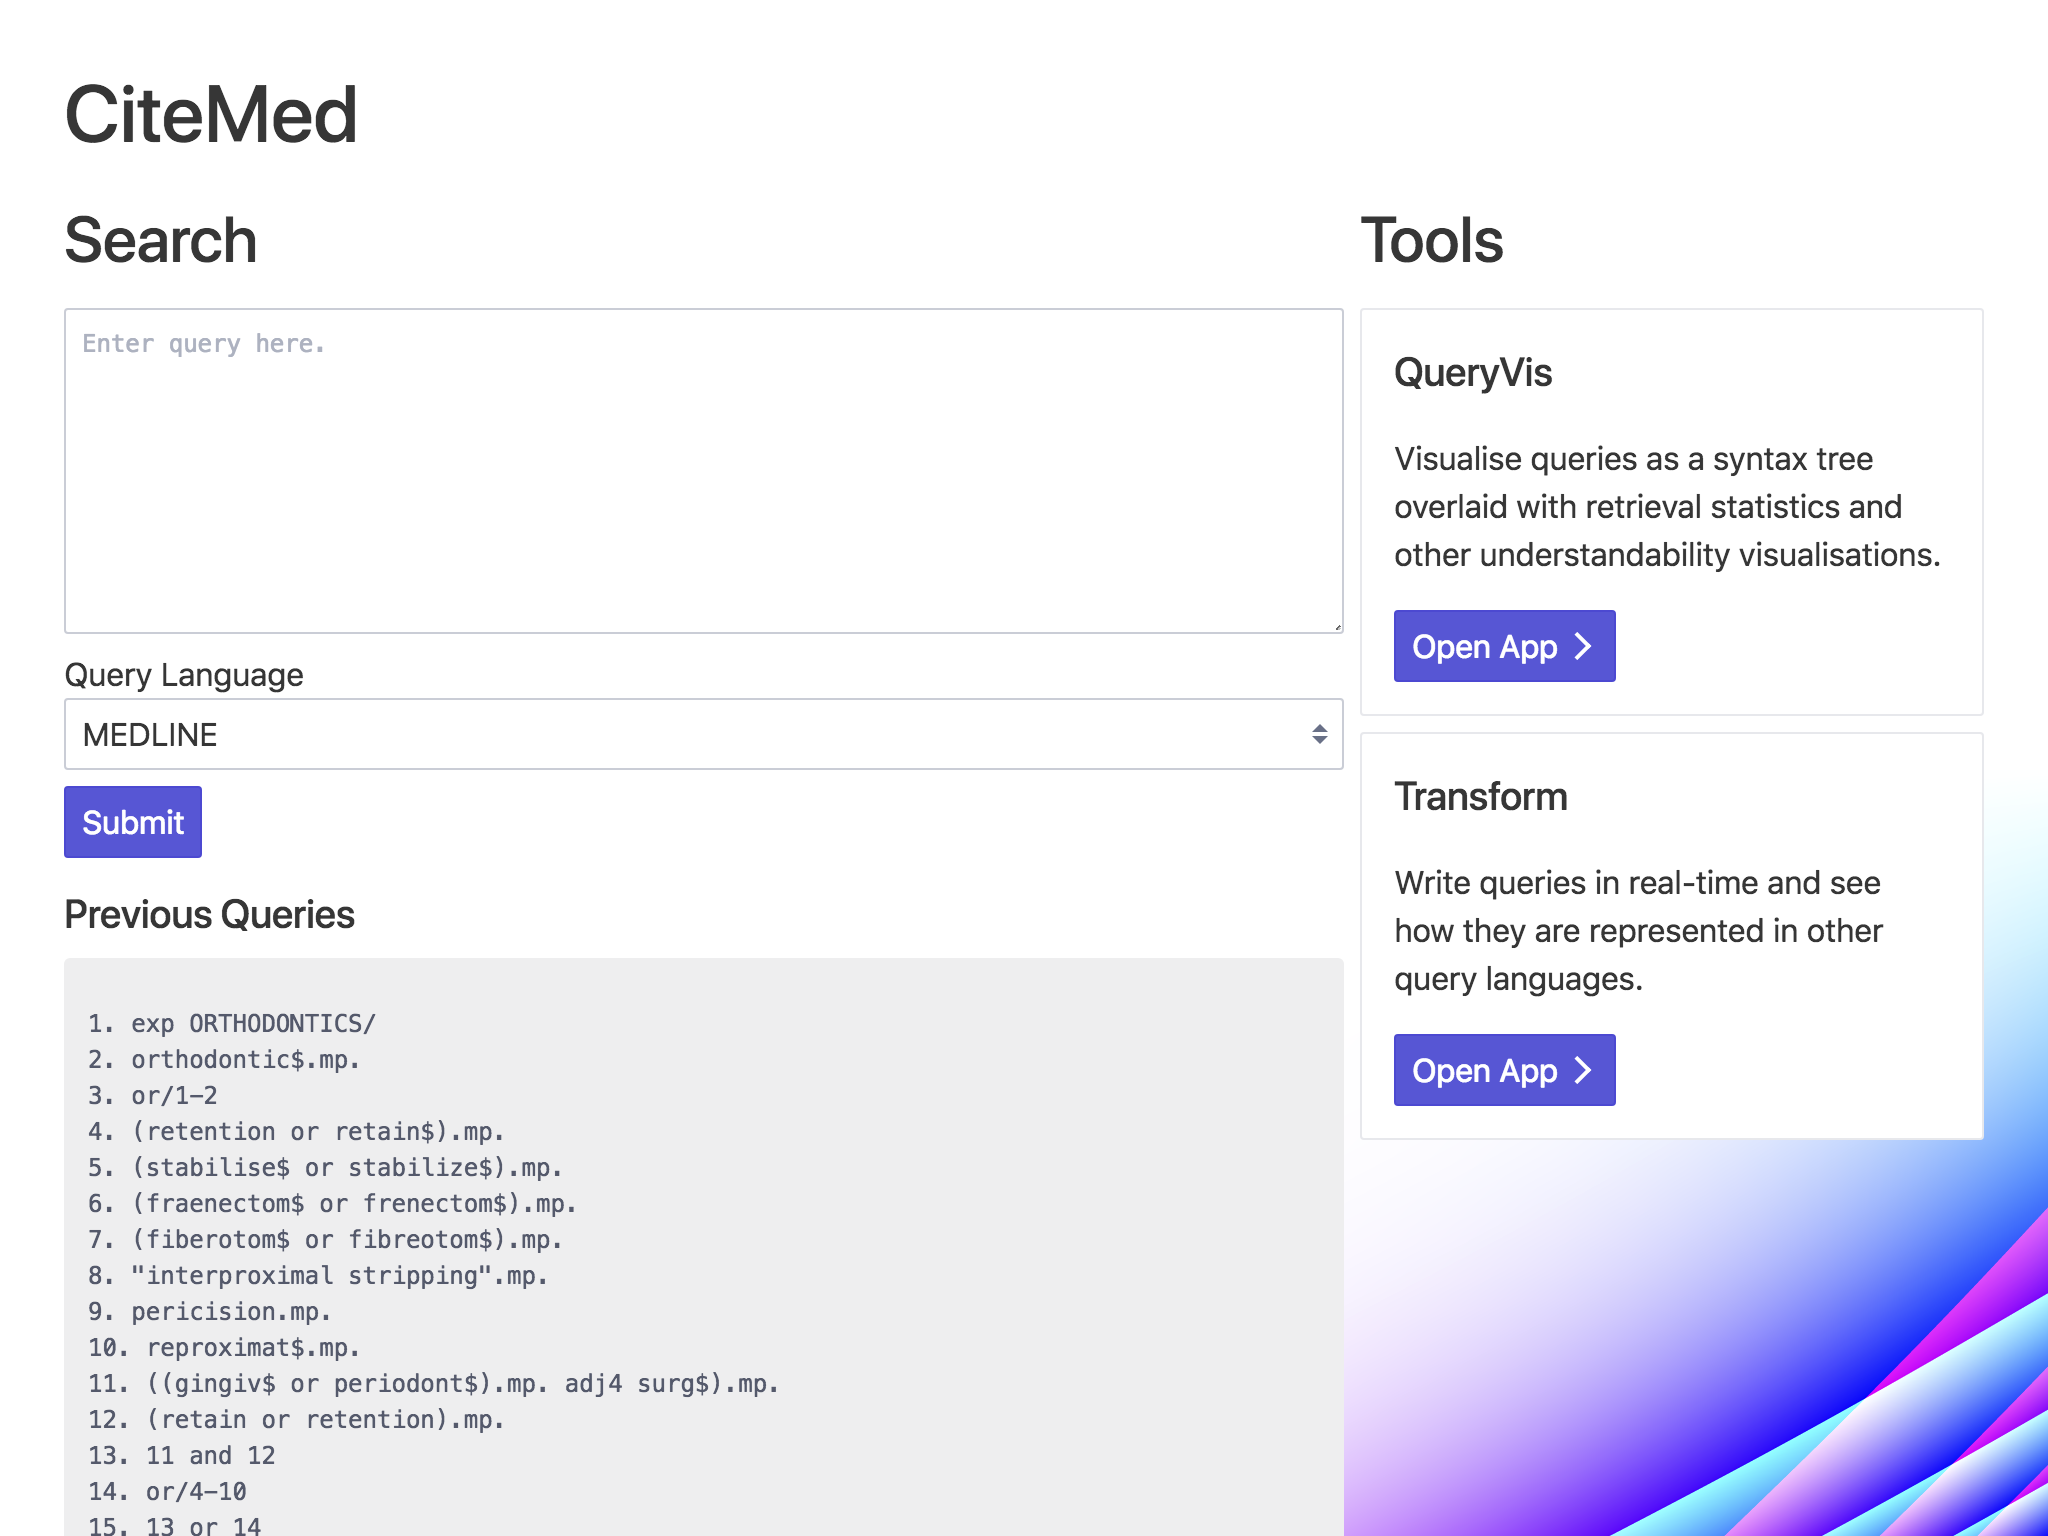
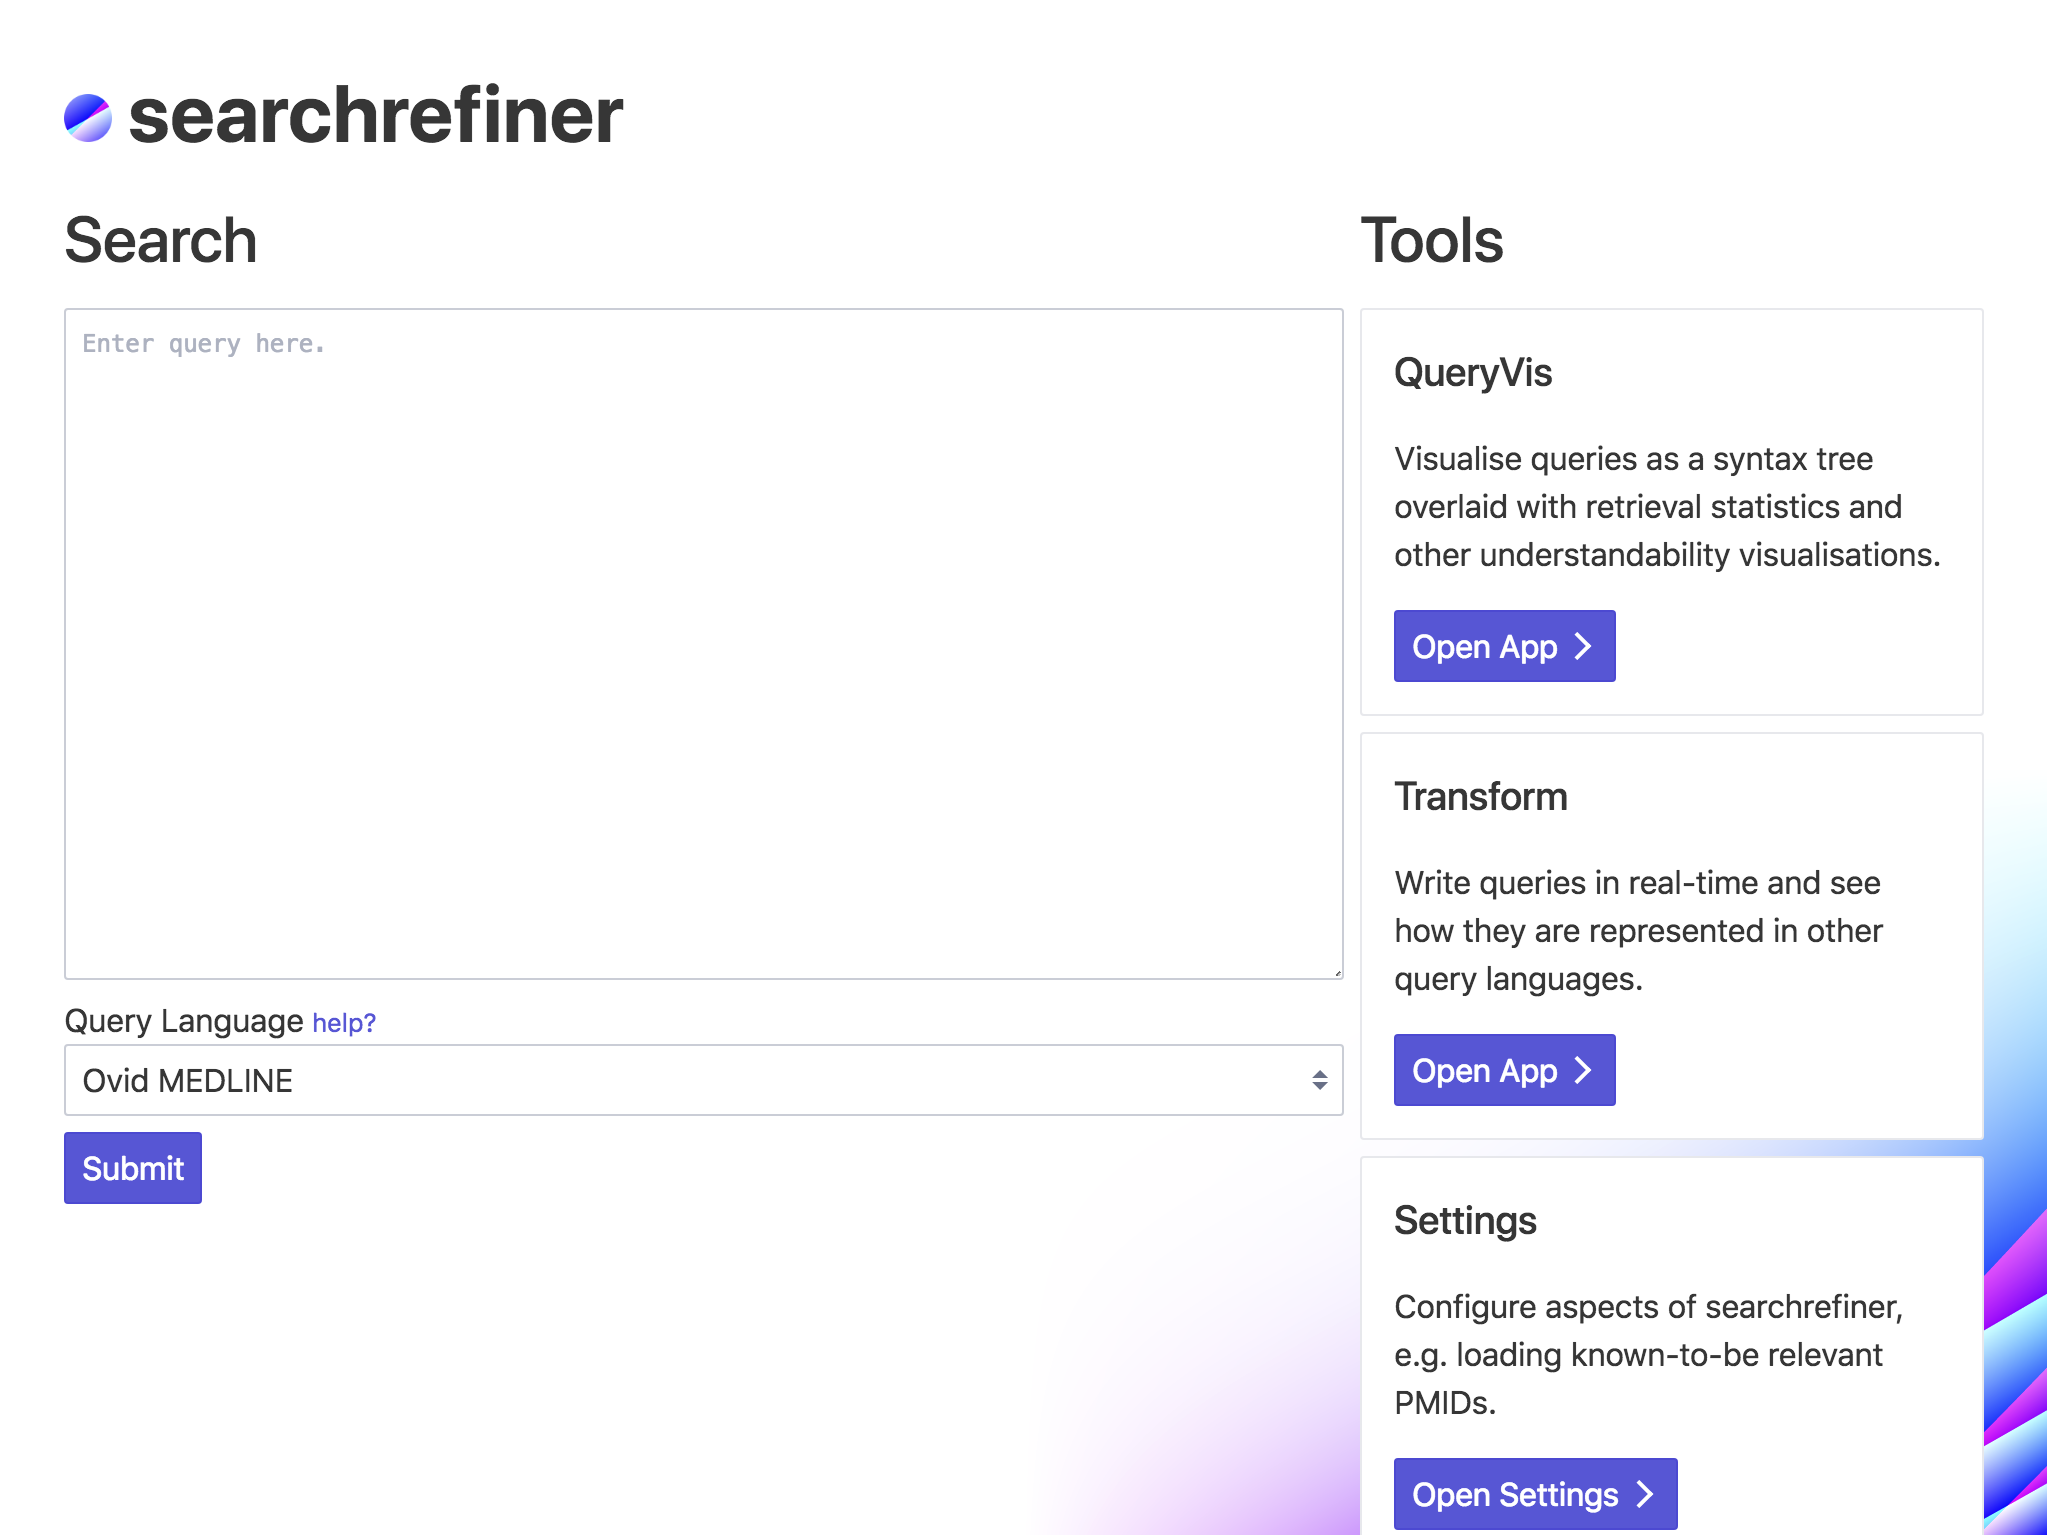
Rename to searchrefiner (Resolves #29).

diff --git a/web/index.html b/web/index.html
@@ -1,16 +1,16 @@
 <!--suppress HtmlUnknownTarget -->
 <html>
 <head>
-    <title>CiteMed</title>
+    <title>searchrefiner</title>
     <link rel="icon" href="static/favicon.png" type="image/x-png">
     <link rel="stylesheet" href="static/spectre.min.css" type="text/css">
     <link rel="stylesheet" href="static/spectre-icons.min.css" type="text/css">
     <link rel="stylesheet" href="static/spectre-exp.min.css" type="text/css">
-    <link rel="stylesheet" href="static/citemed.css" type="text/css">
+    <link rel="stylesheet" href="static/searchrefiner.css" type="text/css">
     <style>
         body {
             padding: 32px;
-            background: url("static/citemed.png") no-repeat fixed bottom right;
+            background: url("static/searchrefiner.png") no-repeat fixed bottom right;
             background-size: 50%;
         }
 
@@ -23,7 +23,7 @@
 <body>
 {{template "bigbro"}}
 <div class="container">
-    <h1>CiteMed</h1>
+    <h1><img src="static/favicon.png" width="24px" height="24px">&nbsp;<b>searchrefiner</b></h1>
     <div class="columns pt-2">
         <div class="column col-8">
             <h2>Search</h2>
@@ -112,7 +112,7 @@
                     <div class="card-title h5">Settings</div>
                 </div>
                 <div class="card-body">
-                    Configure aspects of CiteMed, e.g. loading known-to-be relevant PMIDs.
+                    Configure aspects of searchrefiner, e.g. loading known-to-be relevant PMIDs.
                 </div>
                 <div class="card-footer">
                     <a href="/settings" class="btn btn-primary">Open Settings <i class="icon icon-arrow-right"></i></a>

diff --git a/web/help.html b/web/help.html
@@ -20,7 +20,7 @@
 </head>
 <body>
 {{template "bigbro"}}
-<h1>CiteMed Help</h1>
+<h1>searchrefiner Help</h1>
 <p><a href="/">home</a></p>
 <p><strong>Contents</strong></p>
 <ol>
@@ -31,7 +31,7 @@
 </ol>
 <h2 id="WritingQueries">Writing Queries</h2>
 
-<p>Currently queries can be submitted to CiteMed in two query languages. The first query language is Ovid MEDLINE. these
+<p>Currently queries can be submitted to searchrefiner in two query languages. The first query language is Ovid MEDLINE. these
     queries look like this:</p>
 
 <pre>
@@ -76,8 +76,8 @@
 
 <h2 id="LoadingPMIDs">Loading Known Relevant PMIDs</h2>
 
-<p>Loading known-relevant PMIDs into CiteMed allows one to identify how effective a query is at retrieving a baseline
-    set of citations. To load PMIDs into CiteMed, visit the <a href="/settings">settings</a> page (also accessible from
+<p>Loading known-relevant PMIDs into searchrefiner allows one to identify how effective a query is at retrieving a baseline
+    set of citations. To load PMIDs into searchrefiner, visit the <a href="/settings">settings</a> page (also accessible from
     the sidebar). Type or paste in the PMIDs of citations that the query that is being formulated should retrieve.
     These statistics will then be visible in the QueryVis tool.
 </p>

diff --git a/web/settings.html b/web/settings.html
@@ -2,12 +2,12 @@
 <html lang="en">
 <head>
     <meta charset="UTF-8">
-    <title>CiteMed - Settings</title>
+    <title>searchrefiner - Settings</title>
     <link rel="icon" href="static/favicon.png" type="image/x-png">
     <link rel="stylesheet" href="static/spectre.min.css" type="text/css">
     <link rel="stylesheet" href="static/spectre-icons.min.css" type="text/css">
     <link rel="stylesheet" href="static/spectre-exp.min.css" type="text/css">
-    <link rel="stylesheet" href="static/citemed.css" type="text/css">
+    <link rel="stylesheet" href="static/searchrefiner.css" type="text/css">
 </head>
 <body>
 {{template "bigbro"}}
@@ -22,8 +22,8 @@
     <div class="columns">
         <div class="column col-1"></div>
         <div class="column col-10">
-            <h1>CiteMed Settings</h1>
-            <p>Here you may configure parts of CiteMed to assist with query formulation.</p>
+            <h1>searchrefiner Settings</h1>
+            <p>Here you may configure parts of searchrefiner to assist with query formulation.</p>
             <div class="divider"></div>
             <div>
                 <label class="form-label" for="rel">Known Relevant PMIDs (separated by a new-line):</label>

diff --git a/web/tree.html b/web/tree.html
@@ -3,7 +3,7 @@
 <html lang="en" xmlns:v-on="http://www.w3.org/1999/xhtml" xmlns:v-bind="http://www.w3.org/1999/xhtml">
 <head>
     <meta charset="UTF-8">
-    <title>CiteMed - QueryVis</title>
+    <title>searchrefiner - QueryVis</title>
     <link rel="icon" href="static/favicon.png" type="image/x-png">
     <link rel="stylesheet" href="static/spectre.min.css" type="text/css">
     <link rel="stylesheet" href="static/spectre-icons.min.css" type="text/css">
@@ -11,7 +11,7 @@
     <link rel="stylesheet" href="static/vis.min.css" type="text/css">
     <link rel="stylesheet" href="static/vue-multiselect.min.css" type="text/css">
     <link rel="stylesheet" href="static/logtail.css" type="text/css">
-    <link rel="stylesheet" href="static/citemed.css" type="text/css">
+    <link rel="stylesheet" href="static/searchrefiner.css" type="text/css">
     <style>
         body, html, .container {
             height: 100%;

diff --git a/web/error.html b/web/error.html
@@ -2,7 +2,7 @@
 <html lang="en">
 <head>
     <meta charset="UTF-8">
-    <title>CiteMed Authentication</title>
+    <title>searchrefiner Authentication</title>
     <link rel="icon" href="/static/favicon.png" type="image/x-png">
     <link rel="stylesheet" href="/static/spectre.min.css" type="text/css">
 </head>
@@ -17,7 +17,7 @@
         <div class="empty-subtitle">{{ .Error }}</div>
         <div class="empty-action">
             <p>Can this error be resolved? <a href="/help">&rarr; Help</a>.</p>
-            <p>Think this is a bug? <a href="https://github.com/ielab/citemed/issues">&rarr; Submit an issue</a>.</p>
+            <p>Think this is a bug? <a href="https://github.com/ielab/searchrefiner/issues">&rarr; Submit an issue</a>.</p>
             <a class="btn btn-primary" href="{{ .BackLink }}">Back</a>
         </div>
     </div>

diff --git a/components/sidebar.tmpl.html b/components/sidebar.tmpl.html
@@ -1,14 +1,14 @@
 {{define "sidebar"}}
 <section class="navbar-section">
     <a class="off-canvas-toggle btn btn-link" href="#sidebar">
-        <i class="icon icon-menu"></i> CiteMed
+        <i class="icon icon-menu"></i> searchrefiner
     </a>
     <div class="off-canvas">
         <ul class="menu off-canvas-sidebar text-center" id="sidebar">
             <li class="menu-item">
                 <div class="tile tile-centered">
                     <div class="tile-icon"><img src="static/favicon.png" class="avatar" width="32px"></div>
-                    <div class="tile-content">CiteMed</div>
+                    <div class="tile-content">searchrefiner</div>
                 </div>
             </li>
             <li class="divider"></li>

diff --git a/web/results.html b/web/results.html
@@ -2,12 +2,12 @@
 <html lang="en" xmlns:v-bind="http://www.w3.org/1999/xhtml">
 <head>
     <meta charset="UTF-8">
-    <title>CiteMed - Search Results</title>
+    <title>searchrefiner - Search Results</title>
     <link rel="icon" href="static/favicon.png" type="image/x-png">
     <link rel="stylesheet" href="static/spectre.min.css" type="text/css">
     <link rel="stylesheet" href="static/spectre-icons.min.css" type="text/css">
     <link rel="stylesheet" href="static/spectre-exp.min.css" type="text/css">
-    <link rel="stylesheet" href="static/citemed.css" type="text/css">
+    <link rel="stylesheet" href="static/searchrefiner.css" type="text/css">
     <style>
         .text-sm {
             line-height: 0.9rem;

diff --git a/web/query.html b/web/query.html
@@ -2,12 +2,12 @@
 <html lang="en">
 <head>
     <meta charset="UTF-8">
-    <title>CiteMed - Search Results</title>
+    <title>searchrefiner - Search Results</title>
     <link rel="icon" href="static/favicon.png" type="image/x-png">
     <link rel="stylesheet" href="static/spectre.min.css" type="text/css">
     <link rel="stylesheet" href="static/spectre-icons.min.css" type="text/css">
     <link rel="stylesheet" href="static/spectre-exp.min.css" type="text/css">
-    <link rel="stylesheet" href="static/citemed.css" type="text/css">
+    <link rel="stylesheet" href="static/searchrefiner.css" type="text/css">
 </head>
 <body>
 {{template "bigbro"}}

diff --git a/web/transform.html b/web/transform.html
@@ -2,12 +2,12 @@
 <html lang="en">
 <head>
     <meta charset="UTF-8">
-    <title>CiteMed - Transform</title>
+    <title>searchrefiner - Transform</title>
     <link rel="icon" href="static/favicon.png" type="image/x-png">
     <link rel="stylesheet" href="static/spectre.min.css" type="text/css">
     <link rel="stylesheet" href="static/spectre-icons.min.css" type="text/css">
     <link rel="stylesheet" href="static/spectre-exp.min.css" type="text/css">
-    <link rel="stylesheet" href="static/citemed.css" type="text/css">
+    <link rel="stylesheet" href="static/searchrefiner.css" type="text/css">
     <style>
 
         html {

diff --git a/components/login.template.html b/components/login.template.html
@@ -3,7 +3,7 @@
 <html lang="en">
 <head>
     <meta charset="UTF-8">
-    <title>CiteMed Authentication</title>
+    <title>searchrefiner Authentication</title>
     <link rel="icon" href="/static/favicon.png" type="image/x-png">
     <link rel="stylesheet" href="/static/spectre.min.css" type="text/css">
     <link rel="stylesheet" href="/static/spectre-icons.min.css" type="text/css">
@@ -16,7 +16,7 @@
         <figure class="avatar avatar-lg">
             <img src="/static/favicon.png">
         </figure>
-        <div class="h5 mt-2">CiteMed</div>
+        <div class="h5 mt-2">searchrefiner</div>
     </div>
 {{end}}
 

diff --git a/components/util.tmpl.html b/components/util.tmpl.html
@@ -4,7 +4,7 @@
 
 {{define "footer"}}
 <footer>
-    Version {{template "version"}} | <a href="https://ielab.io/citemed/">about</a> | <a href="/help">help</a> | <a
-        href="https://github.com/ielab/citemed/issues">issues</a> | <a href="https://ielab.io/citemed/changelog">changelog</a>
+    Version {{template "version"}} | <a href="https://ielab.io/searchrefiner/">about</a> | <a href="/help">help</a> | <a
+        href="https://github.com/ielab/searchrefiner/issues">issues</a> | <a href="https://ielab.io/searchrefiner/changelog">changelog</a>
 </footer>
 {{end}}

diff --git a/docs/_includes/top.html b/docs/_includes/top.html
@@ -5,7 +5,7 @@
     <meta http-equiv="X-UA-Compatible" content="chrome=1">
     <link rel="stylesheet" href="{{ '/assets/css/style.css?v=' | append: site.github.build_revision | relative_url }}">
     <meta name="viewport" content="width=device-width, initial-scale = 1.0, maximum-scale=1.0, user-scalable=no" />
-    <title>CiteMed</title>
+    <title>searchrefiner</title>
     <!--[if lt IE 9]>
     <script src="//html5shiv.googlecode.com/svn/trunk/html5.js"></script>
     <![endif]-->
